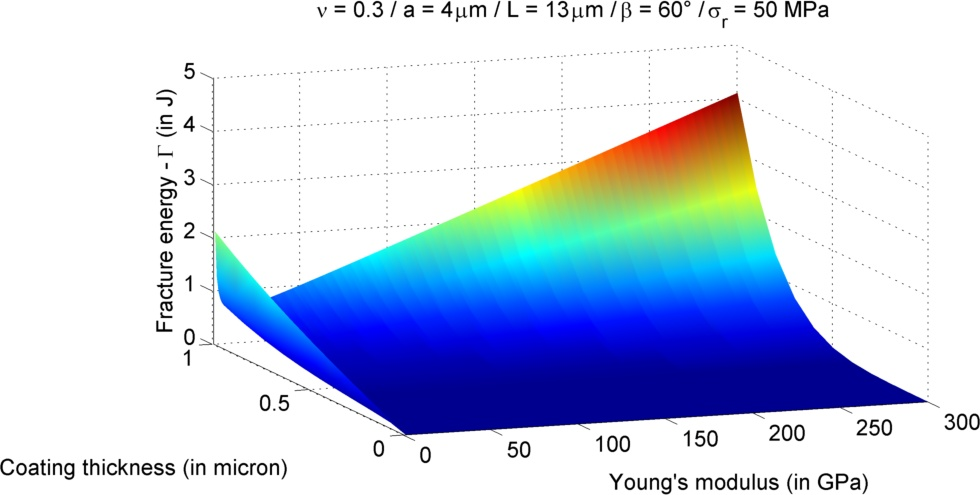
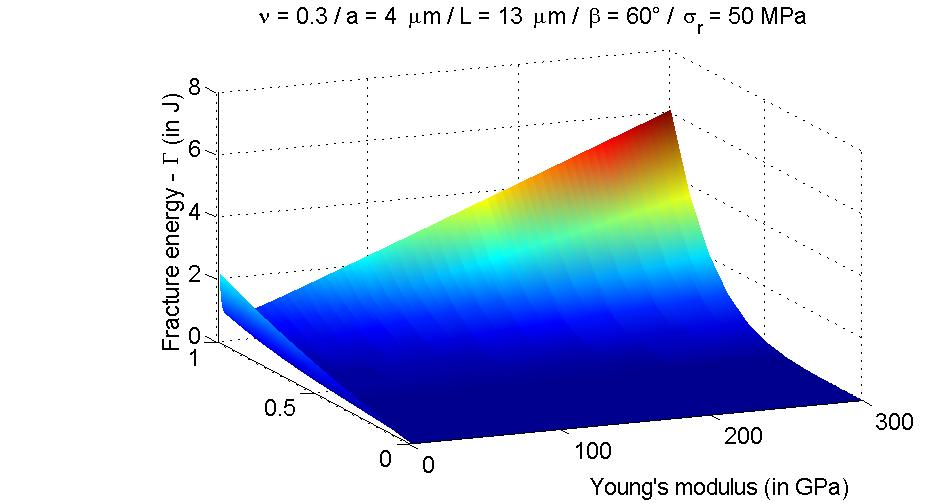
corrected functions and pictures for fracture energy calculations

diff --git a/mechanicalContact/spallationIndentationScratch/fractureEnergy_Toonder.m b/mechanicalContact/spallationIndentationScratch/fractureEnergy_Toonder.m
@@ -27,9 +27,9 @@ function Gamma = fractureEnergy_Toonder(E, nu, t, sigmaRes, a, L, beta, varargin
 
 % author: david9684@gmail.com
 
-close all;
-
 if nargin < 1
+    close all;
+    
     % Experimental values obtained for a sol-gel coating.
     E = 20; % in GPa
     nu = 0.3; % Poisson's coefficient
@@ -47,7 +47,6 @@ if nargin < 1
     set(gca, 'FontSize', 14);
     grid on;
     ylim([0 1]);
-    save_figure(pwd, gca);
     
     % Experimental values obtained for a sol-gel coating.
     E = 1:1:300; % in GPa
@@ -66,7 +65,6 @@ if nargin < 1
     set(gca, 'FontSize', 14);
     grid on;
     ylim([0 5]);
-    save_figure(pwd, gca);
     
     % Experimental values obtained for a sol-gel coating.
     E = 20; % in GPa
@@ -84,7 +82,6 @@ if nargin < 1
     ylabel('Fracture energy - \Gamma (in J)', 'Color', [0,0,0], 'FontSize', 14);
     set(gca, 'FontSize', 14);
     grid on;
-    save_figure(pwd, gca);
     
     % Experimental values obtained for a sol-gel coating.
     E = 1:1:300; % in GPa
@@ -112,11 +109,10 @@ if nargin < 1
     grid on;
     view(-20, 20);
     shading interp;
-    save_figure(pwd, gca);
     
 end
 
-X = ((a/L) + ((beta*pi)/2))/((a/L) + (beta*pi));
+X = ((a./L) + ((beta.*pi./180)./2))./((a./L) + (beta.*pi./180));
 
 Gamma = (1.42 .* (E.*(t.^5)./(L.^4)) .* (X).^2 + ...
     ((t.*(1-nu).*(sigmaRes.^2))./E) + ...
